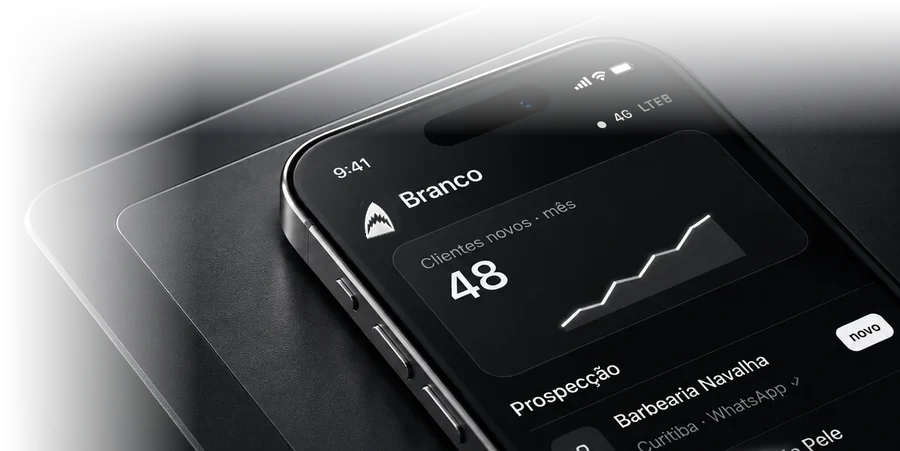
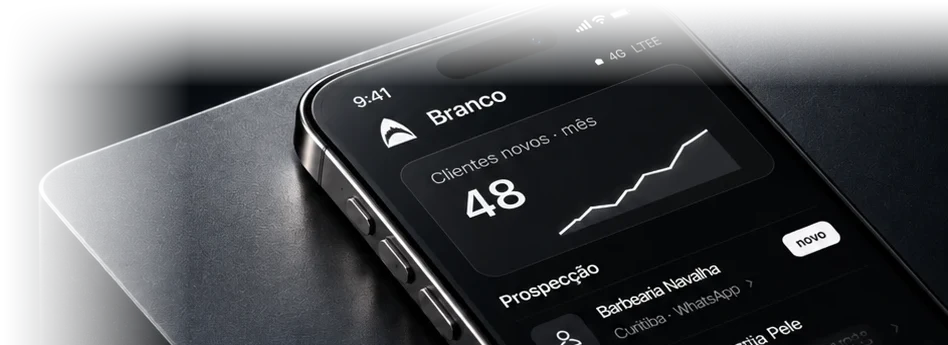
Capa: nova imagem da mesa e celular, animações realinhadas
Claude-Session: https://claude.ai/code/session_012MDjuqxzXTSSVimVPkW37Z

diff --git a/index.html b/index.html
@@ -376,21 +376,21 @@ document.addEventListener('DOMContentLoaded',function(){
       <div class="hf" aria-hidden="true"><div class="hf__aco"></div><div class="hf__feixe"><i></i><b></b></div><div class="hf__lamp"></div><div class="hf__luz"></div><div class="hf__veu"></div></div>
       <div class="tb tb--e" aria-hidden="true"><div class="tb__vidro"><div class="tb__top"><i></i><i></i><i></i><span>index.html</span></div><pre class="tb__code" data-tb="0"></pre><div class="tb__pe"><span class="tb__st">● ao vivo</span><span class="tb__bar"><b></b></span></div></div></div>
       <div class="tb tb--d tb--globo" aria-hidden="true"><div class="tb__vidro tb__globo"><canvas id="gl-terra"></canvas></div></div>
-      <div class="cel cel--img" aria-hidden="true"><img src="img/mesa-celular.webp" alt="" width="900" height="451" decoding="async">
-        <svg class="cel__fx" viewBox="0 0 900 451" preserveAspectRatio="none">
+      <div class="cel cel--img" aria-hidden="true"><img src="img/mesa-celular.webp" alt="" width="948" height="345" decoding="async">
+        <svg class="cel__fx" viewBox="0 0 948 345" preserveAspectRatio="none">
           <defs>
-            <clipPath id="celTela"><polygon points="305,165 630,45 900,40 900,451 470,451"/></clipPath>
+            <clipPath id="celTela"><polygon points="316,105 620,0 948,0 948,345 455,345"/></clipPath>
             <linearGradient id="celVarre" x1="0" x2="1" y1="0" y2="0"><stop offset="0" stop-color="#fff" stop-opacity="0"/><stop offset=".5" stop-color="#fff" stop-opacity=".10"/><stop offset="1" stop-color="#fff" stop-opacity="0"/></linearGradient>
             <filter id="celGlow"><feGaussianBlur stdDeviation="2.4"/></filter>
           </defs>
-          <g clip-path="url(#celTela)"><rect class="cel__varre" x="-200" y="0" width="160" height="451" fill="url(#celVarre)" transform="skewX(-25)"/></g>
-          <path class="cel__linha cel__linha--g" d="M563 324 L570 318 L580 309 L590 306 L600 304 L610 290 L615 283 L628 278 L640 274 L650 260 L665 252 L680 244 L690 229 L700 222 L708 215" pathLength="100" filter="url(#celGlow)"/>
-          <path class="cel__linha" d="M563 324 L570 318 L580 309 L590 306 L600 304 L610 290 L615 283 L628 278 L640 274 L650 260 L665 252 L680 244 L690 229 L700 222 L708 215" pathLength="100"/>
-          <circle class="cel__bola" r="4"><animateMotion dur="3.6s" repeatCount="indefinite" keyPoints="0;1;1" keyTimes="0;.7;1" calcMode="linear" path="M563 324 L570 318 L580 309 L590 306 L600 304 L610 290 L615 283 L628 278 L640 274 L650 260 L665 252 L680 244 L690 229 L700 222 L708 215"/></circle>
-          <polygon class="cel__tampa" points="449,262 509,246 512,300 452,312"/>
-          <text class="cel__num" id="cel-num" transform="translate(452,299) rotate(-16) skewX(-4)">48</text>
-          <circle class="cel__ping" cx="601" cy="125" r="3.5"/>
-          <ellipse class="cel__novo" cx="866" cy="331" rx="32" ry="14" transform="rotate(-16 866 331)"/>
+          <g clip-path="url(#celTela)"><rect class="cel__varre" x="-200" y="0" width="160" height="345" fill="url(#celVarre)" transform="skewX(-25)"/></g>
+          <path class="cel__linha cel__linha--g" d="M560 232 L568 226 L576 219 L584 214 L592 207 L604 205 L616 203 L624 193 L632 189 L640 179 L648 173 L664 169 L672 163 L680 150 L688 142 L696 137 L704 131" pathLength="100" filter="url(#celGlow)"/>
+          <path class="cel__linha" d="M560 232 L568 226 L576 219 L584 214 L592 207 L604 205 L616 203 L624 193 L632 189 L640 179 L648 173 L664 169 L672 163 L680 150 L688 142 L696 137 L704 131" pathLength="100"/>
+          <circle class="cel__bola" r="4"><animateMotion dur="3.6s" repeatCount="indefinite" keyPoints="0;1;1" keyTimes="0;.7;1" calcMode="linear" path="M560 232 L568 226 L576 219 L584 214 L592 207 L604 205 L616 203 L624 193 L632 189 L640 179 L648 173 L664 169 L672 163 L680 150 L688 142 L696 137 L704 131"/></circle>
+          <polygon class="cel__tampa" points="457,188 529,175 532,222 460,229"/>
+          <text class="cel__num" id="cel-num" transform="translate(462,218) rotate(-11)">48</text>
+          <circle class="cel__ping" cx="598" cy="58" r="3.5"/>
+          <ellipse class="cel__novo" cx="812" cy="241" rx="30" ry="13" transform="rotate(-16 812 241)"/>
         </svg></div>
       <div class="hl">
         <div class="hl__logo" id="hl-logo"><span class="hl__aura" aria-hidden="true"><i></i><i></i></span><span class="hl__cartao" id="hl-cartao"><img src="img/logo-3d.webp" alt="Logo da Branco: tubarão em 3D" width="609" height="720" decoding="async"><span class="hl__brilho" aria-hidden="true"></span><span class="hl__luztopo" aria-hidden="true"></span></span></div>
@@ -2451,7 +2451,7 @@ html[data-theme=light] .tb--e .tb__vidro{background:linear-gradient(150deg,rgba(
 
 <style id="cel-img-css">
 /* quina: imagem da mesa com o celular (render enviado) */
-.cel.cel--img{position:absolute;right:0;bottom:0;width:min(720px,52vw);height:auto;perspective:none;z-index:3;pointer-events:none}
+.cel.cel--img{position:absolute;right:0;bottom:0;width:min(760px,54vw);height:auto;perspective:none;z-index:3;pointer-events:none}
 .cel--img img{display:block;width:100%;height:auto;animation:celSobe 1.2s .3s cubic-bezier(.2,.8,.2,1) both}
 @keyframes celSobe{from{opacity:0;transform:translateY(30px)}to{opacity:1;transform:none}}
 @media (max-width:900px){.cel.cel--img{display:none}}
@@ -2466,8 +2466,8 @@ html[data-theme=light] .tb--e .tb__vidro{background:linear-gradient(150deg,rgba(
 .cel__linha--g{stroke-width:6;opacity:.7}
 @keyframes celDesenha{0%{stroke-dashoffset:100;opacity:1}65%{stroke-dashoffset:0;opacity:1}85%{stroke-dashoffset:0;opacity:1}100%{stroke-dashoffset:0;opacity:0}}
 .cel__bola{fill:#fff;filter:drop-shadow(0 0 6px #fff)}
-.cel__tampa{fill:#141618}
-.cel__num{font:700 42px "Inter","Helvetica Neue",Arial,sans-serif;fill:#f4f4f6;letter-spacing:-1px}
+.cel__tampa{fill:#1c1d21}
+.cel__num{font:700 46px "Inter","Helvetica Neue",Arial,sans-serif;fill:#f4f4f6;letter-spacing:-1px}
 .cel__ping{fill:#fff;animation:celPing 1.8s ease-in-out infinite}
 @keyframes celPing{50%{opacity:.25}}
 .cel__novo{fill:none;stroke:#fff;stroke-width:1.5;opacity:0;animation:celNovo 2.6s ease-out infinite;transform-box:fill-box;transform-origin:center}
